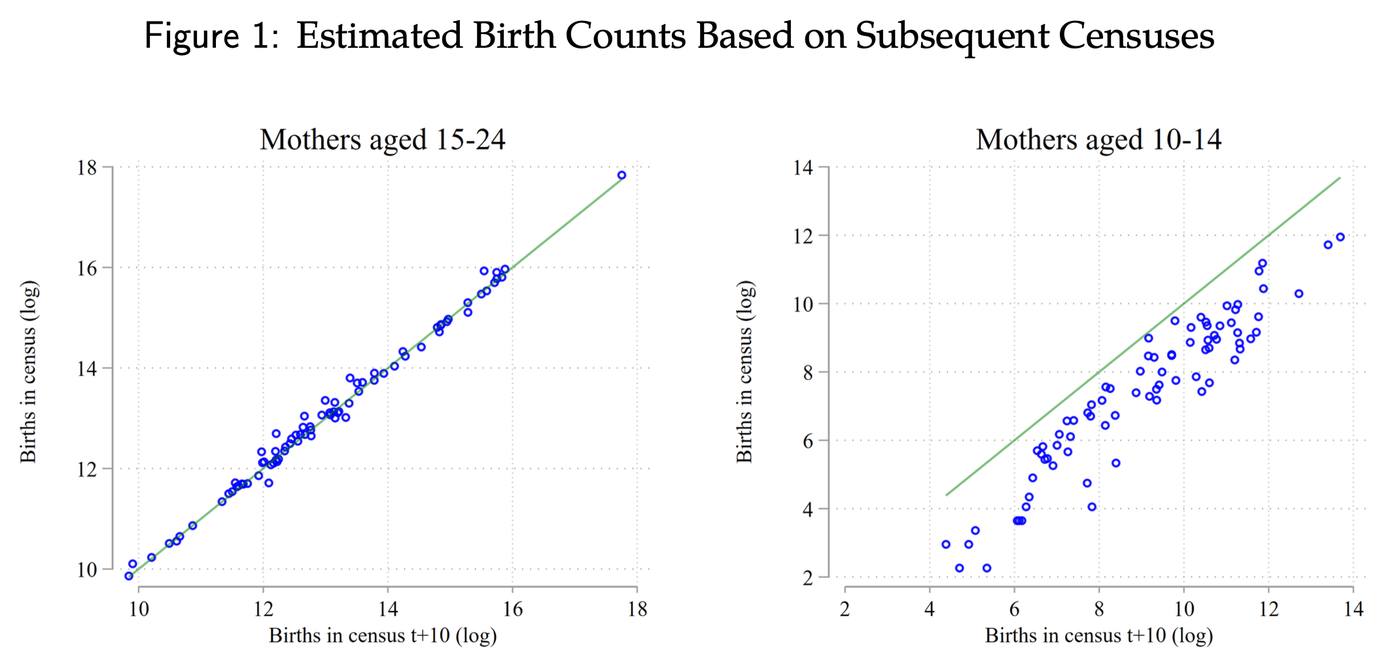
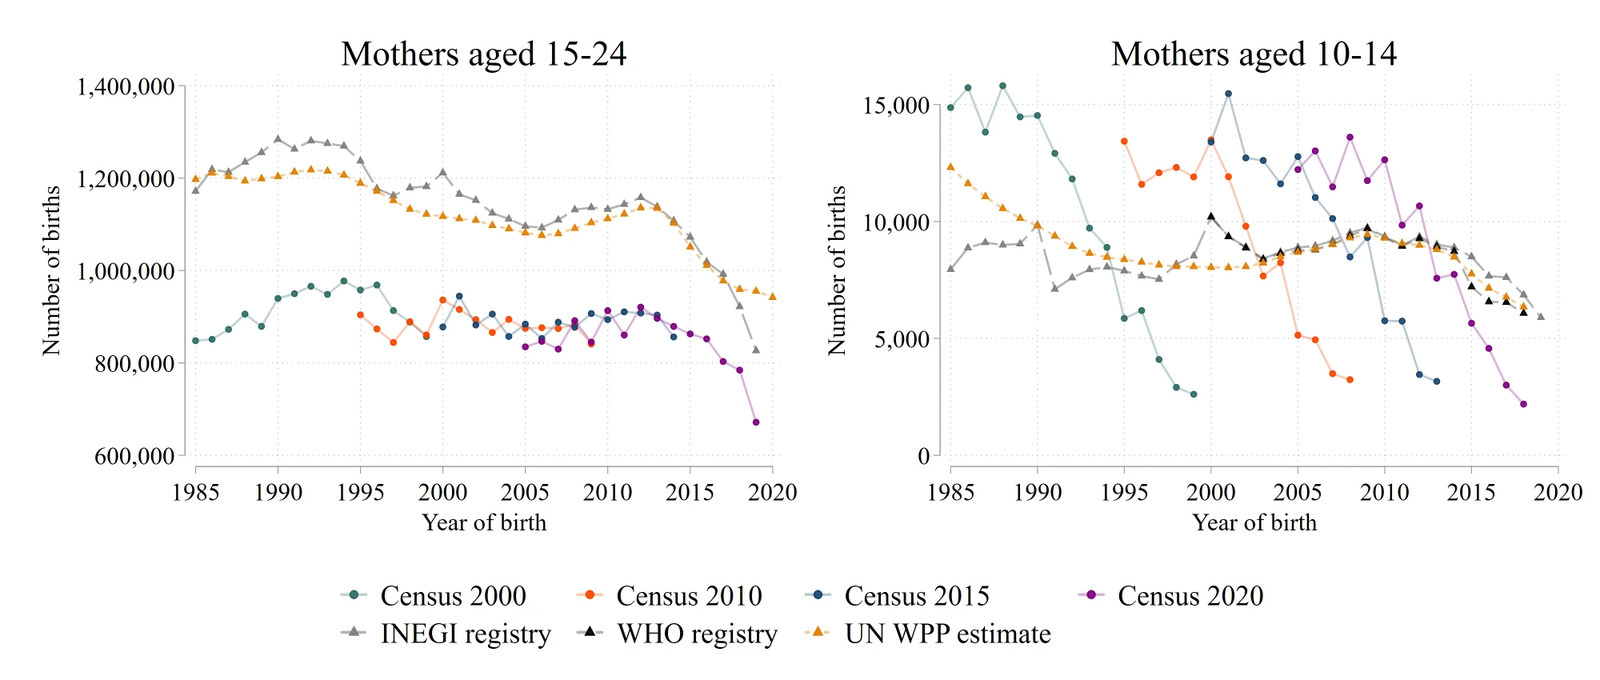
Replace child-mothers figure with f4_mex_census_vs_who_wpp
Mexico birth counts by year across census rounds, INEGI/WHO registries,
and UN WPP estimates, for mothers 15-24 vs 10-14.

Claude-Session: https://claude.ai/code/session_012axZGg1boALQKt8amXgEVs

diff --git a/_pages/research.md b/_pages/research.md
@@ -32,7 +32,7 @@ People often make important choices in pursuit of higher income, but do they pla
 
 <div class="paper-entry">
   <div class="paper-entry__img">
-    <img src="/images/wp-child-mother-births.png" alt="Two scatterplots of log births recorded in the census against log births implied by the census ten years later. For mothers aged 15 to 24 the points sit on the 45-degree line; for mothers aged 10 to 14 they sit well below it, indicating undercounting.">
+    <img src="/images/wp-child-mother-births.png" alt="Two line charts comparing Mexican birth counts by year across Census 2000, 2010, 2015, and 2020, INEGI vital registry, WHO registry, and UN World Population Prospects estimates. For mothers aged 15-24 the series broadly agree; for mothers aged 10-14 the census-based counts fall well below the registry and UN series in most years, indicating undercounting.">
   </div>
   <div class="paper-entry__body" markdown="1">
 
